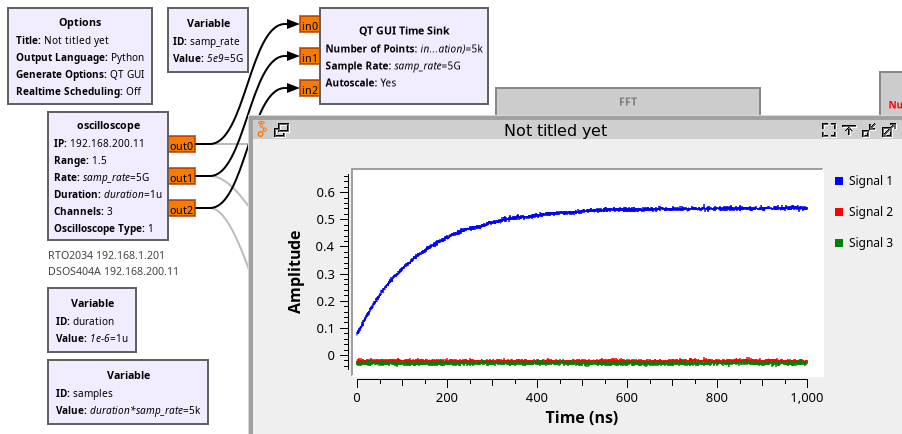
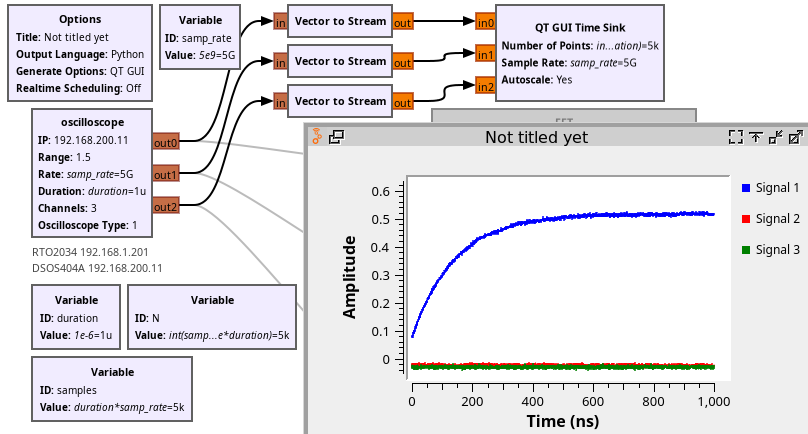
update README and examples

Changed region(s): [[0.0, 0.0, 1.0, 1.0], [0.5569, 0.4493, 0.9901, 0.5991], [0.8973, 0.3894, 0.9901, 0.4493]]

diff --git a/examples/README.md b/examples/README.md
@@ -3,19 +3,39 @@
 ## TCP/IP virtual instrument server
 
 The TCP/IP in this directory is compiled with ``make`` to produce
-``tcp_server``. Launch ``tcp_server`` in a terminal, and in GNU Radio
-Companion ``gnuradio310_tcpip.grc`` leading the the following output:
+``tcp_server``. Launch ``tcp_server`` in a terminal (top-right on the
+screenshot below), and in GNU Radio Companion ``gnuradio310_tcpip.grc`` 
+leading the the following output:
 
 <img src="gnuradio310_tcpip.png">
 
-The server generates as any sine waves as declared channel, first argument
+The server generates as many sine waves as declared channel, first argument
 sent by the client to the server. Tested July 2026 with GNU Radio 3.10.12.0
-(Python 3.13.12)
+(Python 3.13.12). The vector to stream is needed since the gr-oscilloscope 
+block naturally generates vector with ``duration * samp_rate`` samples on each
+channel
+
+<img src="gnuradio310_tcpip_scrot.png">
 
 ## Agilent oscilloscope
 
 Tested on a DSOS404A:
 
+Flowchart, including the cross-correlation in the Fourier domain, emphasizing
+the benefit of the vector output avoiding the ``Stream to Vector`` block before
+each FFT (but requiring the ``Vector to stream`` before each oscilloscope/``Time Sink`` input): 
+
 <img src="gnuradio310_DSOS404A.png">
 
+Time sink outputs with the FFT blocks commented:
+
 <img src="DSOS404A_scrot.png">
+
+Time sink outputs with the FFT blocks running:
+
+<img src="DSOS404A_scrot_FFT.png">
+
+Screenshot of the oscilloscope showing how channel 1 is connected to the
+test signal to trigger the acquisitions, while channels 2 and 3 are floating:
+
+<img src="260717_AgilentDSOS404A.jpg">
